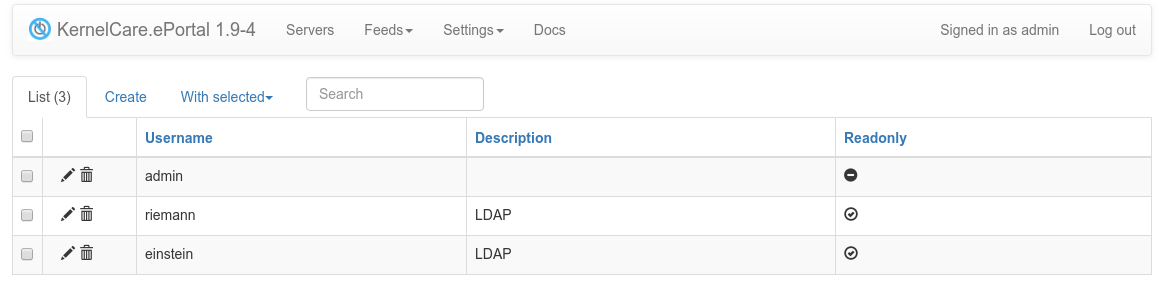
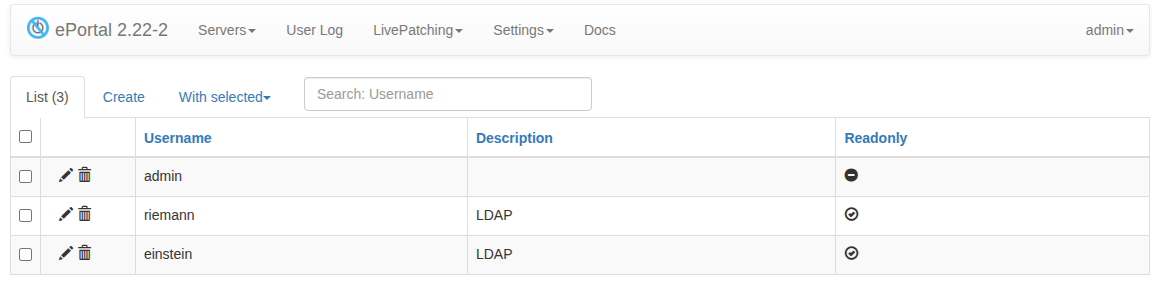
Update ePortal documentation with new features and improvements
- Add Debian 13 support and installation instructions
- Document Distribution column and filtering options (Usage, Distribution, Show unavailable)
- Explain possible patchset statuses
- Add stream-specific unroll commands with --delete option
- Document interactive features (clickable counters, drill-down charts)
- Add backup-db command and restore options documentation
- Enhance Overview page documentation with effective kernels and LibCare statistics
- Add warning about QemuCare deprecation

diff --git a/docs/eportal/README.md b/docs/eportal/README.md
@@ -43,7 +43,7 @@ As far as other requirements concerned, we have tested the following configurati
 If you are installing for the first time, please confirm with our sales engineering team at [sales@tuxcare.com](sales@tuxcare.com) **BEFORE** trying the installation via the documentation below. Please note that support tickets resulting from not following this recommendation will not be accepted.
 :::
 
-ePortal is compatible with 64-bit versions of EL7/8/9 based distros like CentOS 7/8, AlmaLinux 8/9/10, Ubuntu 20.04/22.04/24.04 and Debian 11/12
+ePortal is compatible with 64-bit versions of EL7/8/9 based distros like CentOS 7/8, AlmaLinux 8/9/10, Ubuntu 20.04/22.04/24.04 and Debian 11/12/13
 
 ## Automated Installation Script
 
@@ -59,7 +59,7 @@ The installer script supports the following distributions:
 * Oracle Linux (OEL) 8, 9, 10
 
 **Debian-based:**
-* Debian 11, 12
+* Debian 11, 12, 13
 * Ubuntu 20.04, 22.04, 24.04
 
 ### Main Features
@@ -259,7 +259,30 @@ Install ePortal:
 # apt update && apt install -y --no-install-recommends kcare-eportal
 ```
 
+### Debian 13
+
+```text
+# apt update && apt install -y --no-install-recommends curl ca-certificates
+
+# curl https://repo.cloudlinux.com/kernelcare/kernelcare.gpg -o /usr/share/keyrings/kcare-eportal.gpg
+
+# cat > /etc/apt/sources.list.d/kcare-eportal.list <<EOL
+deb [signed-by=/usr/share/keyrings/kcare-eportal.gpg] https://repo.cloudlinux.com/kcare-eportal/debian/13 kcare main
+EOL
+```
+
+Install ePortal:
+
+```text
+# apt update && apt install -y --no-install-recommends kcare-eportal
+```
+
 ### Docker image
+
+:::tip Note
+For production deployments, use the `-d` flag (detached mode) to run the container in the background. For interactive testing or debugging, you can use `-it` flags instead.
+:::
+
 Simple run:
 
 ```text
@@ -319,6 +342,7 @@ The ePortal image uses several environment variables which are useful for the ad
 | EPORTAL_RADAR_PROXY_ENABLE               | enable TuxCare RADAR proxying                                                        | False         |
 | EPORTAL_RADAR_PROXY_BASEURL              | TuxCare RADAR URL                                                                    | https://radar.tuxcare.com |
 | EPORTAL_SEND_CHECKIN_PERIOD              | servers check-ins report period in seconds                                           | 1 day         |
+| EPORTAL_ENABLE_ERROR_REPORTING           | send application errors to the patchserver                                           | False         |
 
 
 For example, if you need to send reduced stats:
@@ -634,13 +658,41 @@ You can choose only a limited set of distros to fetch to reduce disk space and n
 
 ![dashboard](/images/eportal-dashboard.png)
 
-* **Usage**: amount of servers using particular patchset on any feed. You can click on the number to see a list of servers using the patchset.
+* **Usage**: amount of servers using particular patchset on any feed. You can click on the number to see a list of servers using the patchset. You can filter the patchset list to show only patchsets that are in use by using the Usage column filter.
 
 * **Patchsets**: name of the patchset. Click on a name will show patchset changelog.
+
+* **Distribution**: shows the Linux distributions that this patchset supports. This column helps you identify which patchsets are relevant for your environment. You can use the [distribution filter](#filtering-patchsets) to view only patchsets for specific distributions.
 
 * **Feed name**: cells show patchset deployment and server usage status on particular feed. Numbers are also clickable to filter server list.
 
 * **Manage**: opens dialog to enable/disable the patchset.
+
+### Patchset deployment statuses
+
+The dashboard displays different statuses for patchsets in each feed column:
+
+* **Enabled**: The patchset is enabled and available for servers to use.
+* **Disabled**: The patchset has been disabled by the administrator. It remains in the feed but is not available to servers.
+* **Blocked**: The patchset is blocked on the patchserver, indicating it should not be used (e.g., due to known issues). Blocked patchsets are automatically disabled in ePortal and cannot be managed through the UI.
+* **Undeployed**: The patchset has been downloaded but is not yet deployed to the feed.
+* **Not downloaded**: The patchset has not been downloaded to ePortal yet.
+* **Not available**: The patchset is unavailable for the feed (disabled on the patchserver but not blocked).
+* **Enabled (!)**: Warning status - the patchset is enabled in ePortal but has been disabled or is no longer available on the patchserver. This indicates a conflict between the local ePortal configuration and the patchserver state. Possible causes include:
+  * The patchset was disabled on the patchserver after it was enabled in ePortal (e.g., due to discovered issues, deprecation, or replacement)
+  * The patchset may have been removed from the patchserver for a specific feed or channel
+
+  When you see this status, you should review the patchset and consider disabling it in ePortal or updating to a newer patchset if available. Servers using this patchset may encounter issues.
+
+### Filtering patchsets
+
+You can filter patchsets on the dashboard page:
+
+* **Usage filter**: Filter to show only patchsets that are currently in use by servers (i.e., have at least one server actively using them). This helps you focus on active patchsets or identify which ones can be safely removed. See the [Usage column](#patchset-deployment) description above for more details.
+
+* **Distribution filter**: Filter patchsets based on Linux distribution. This allows you to view only patchsets relevant to specific distributions (e.g., Ubuntu, Debian, RHEL-based), making it easier to manage patchsets for your environment. The filter works with the [Distribution column](#patchset-deployment) to help you find relevant patchsets.
+
+* **Show unavailable patchsets**: By default, patchsets that became unavailable (disabled on the patchserver) are hidden from the dashboard. Enable this toggle to display all patchsets, including those that are unavailable. This can be useful for troubleshooting or viewing the complete list of patchsets.
 
 ### Manage patchset page
 
@@ -648,11 +700,13 @@ You can choose only a limited set of distros to fetch to reduce disk space and n
 
 In this dialog you can control which patchsets will be enabled/disabled on corresponding feeds.
 
-* **Enable all up to this patchset**: action will enable all patchsets (excluding **disabled**) up to this patchset.
+* **Enable all up to this patchset**: action will enable all patchsets (excluding **disabled**) up to this patchset. This action skips any patchsets that are currently disabled, so they remain disabled even when using this bulk enable action.
 
-* **Enable**: action will enable only current patchset.
+* **Enable**: action will enable only the current patchset. If the patchset is not yet deployed, it will be downloaded and deployed first.
 
-* **Disable**: action will disable only current patchset. Disabled patchsets are immune to auto-update and mass-enabling via **Enable all up to this patchset** action.
+* **Disable**: action will disable only the current patchset. Disabled patchsets are immune to auto-update and mass-enabling via **Enable all up to this patchset** action. The patchset remains in the feed but is marked as disabled.
+
+* **Undeploy down to this patchset**: action will disable the selected patchset and all newer patchsets in the feed. Older patchsets remain available in the feed.
 
 To unroll a patchset from the CLI, run:
 
@@ -660,9 +714,23 @@ To unroll a patchset from the CLI, run:
 # kc.eportal --unroll 16012017_1
 ```
 
+Or use the stream-specific commands:
+
+```text
+# kc.eportal kcare unroll 16012017_1
+# kc.eportal libcare unroll U20210129_02
+```
+
+If you want to remove a patchset instead of just disabling it, you can use the `--delete` option:
+
+```text
+# kc.eportal kcare unroll 16012017_1 --delete
+# kc.eportal libcare unroll U20210129_02 --delete
+```
+
 ### Automatic updates
 
-You can configure automatic updates by enabling Autoupdate on the desired feeds via Settings -> Feeds.
+You can configure automatic updates by enabling Autoupdate on the desired feeds via LivePatching -> Feeds.
 
 :::danger Note
 The **default feed** cannot be configured via the Settings page to receive automatic updates. See the next section on configuring automatic updates for the **default feed**.
@@ -712,7 +780,7 @@ $ ssh eportal-prod 'ls /tmp/K*.tar.bz2 | sort -h | xargs -n1 kc.eportal kcare de
 ```
 
 :::danger Note
-Please note that procedure above should be done for all other types of patchsets (like libcare and qemu) *separately*. Use corresponding file prefixes and commands like `kc.eportal libcare deploy`.
+Please note that procedure above should be done for all other types of patchsets (like libcare) *separately*. Use corresponding file prefixes and commands like `kc.eportal libcare deploy`.
 :::
 
 ### Clean obsolete releases
@@ -800,52 +868,9 @@ This command will deploy and enable the `U20210129_02` patchset in to the `test`
 
 ## QEMU PatchSet Deployment
 
-Starting from version 1.25, ePortal supports the QEMU patchset management. It is accessible from the `Patches / QEMUcare` navigation item. QEMU patches use the same Patch Source credentials, and you don't need to perform additional configuration.
-
-![qemu feed](/images/eportal-qemu-feed.png)
-
-### Command to install the latest patchsets
-
-To update the default feed, run the following command:
-
-```text
-# kc.eportal qemu update
-```
-
-To update the `test` feed, run the following command:
-
-```text
-# kc.eportal qemu update --feed test
-```
-
-To update all auto-feeds, run the following command:
-
-```text
-# kc.eportal qemu auto-update
-```
-
-### Command to deploy patchset from archive
-
-```text
-~$ kc.eportal qemu deploy --help
-usage: kc.eportal qemu deploy [-h] [--feed FEED] [--disabled] archive
-
-positional arguments:
-  archive      path to archive
-
-optional arguments:
-  -h, --help   show this help message and exit
-  --feed FEED  feed to deploy archive to
-  --disabled   do not enable patchset after deploy
-```
-
-For example:
-
-```text
-# kc.eportal qemu deploy --feed test /tmp/U20210818_01-qemu.tar.bz2
-```
-
-This command will deploy and enable the `U20210818_01-qemu` patchset in to the `test` feed.
+:::danger Note
+QemuCare product is being deprecated
+:::
 
 ## Managing Keys
 
@@ -871,7 +896,7 @@ Fill in the following fields:
 
 Available products:
 
-* **KernelCare**/**LibCare**/**QemuCare**/**DBCare**: allow only patches of selected type.
+* **KernelCare**/**LibCare**/**QemuCare**/**DBCare**: allow only patches of selected type (QemuCare product is being depricated).
 * **Enterprise Support for AlmaLinux - ESU**: allow access to the Extended Security Updates and FIPS repositories.
 
 Products can be mixed to limit access to a particular set of patch types. For example:
@@ -893,7 +918,7 @@ Click _Cancel_ to return to the key list tab without adding a new key.
 ```text
 ~$ kc.eportal key --help
 usage: kc.eportal key [-h] [-a] [-c] [--note NOTE] [--server-limit SERVER_LIMIT] [--feed FEED]
-                      [--product {tuxcare-repo,db,kernel,libcare,qemu}] [--default-products]
+                      [--product {kernel,libcare,qemu,tuxcare-esu}] [--default-products]
                       [key]
 
 list available keys by default
@@ -909,9 +934,9 @@ optional arguments:
   --server-limit SERVER_LIMIT
                         maximum number of servers allowed
   --feed FEED           feed to associate key to
-  --product {tuxcare-repo,db,kernel,libcare,qemu}
+  --product {kernel,libcare,qemu,tuxcare-esu}
                         products available for the key, can be specified multiple times
-  --default-products    set default product list (KernelCare, LibCare, DBCare, QEMUCare) for the key
+  --default-products    set default product list (KernelCare, LibCare, QEMUCare) for the key
 ```
 
 List keys:
@@ -951,10 +976,14 @@ To view the list of all servers IDs that are connected to the particular key, do
 * In the UI go to the page with the list of keys. Then click the particular
   key. The list of servers connected to this key will be displayed.
 
-To view the list of all servers IDs that are not connected to any key, use the
-<span class="notranslate">_Servers_</span> button on the navigation bar.
+To view the list of all servers, use the
+<span class="notranslate">_Servers_</span> menu on the navigation bar and select _Servers_ from the dropdown menu. The dropdown menu also provides access to _Server tags_ and _Overview_ pages.
 
 ![eportal servers](/images/eportal-servers.png)
+
+:::tip Clickable counters
+The counters displayed on the Servers page are clickable. Clicking on any counter will filter the server list to show only servers matching that criteria. For example, clicking on a counter showing "KCare active" will filter to show only servers with KernelCare actively reporting. This provides quick navigation and filtering capabilities. See also the [Overview page](#overview-page) for similar interactive features.
+:::
 
 Also you can use CLI to see pairs of key/number of servers run:
 
@@ -1036,7 +1065,7 @@ Where `""` is a parameter to delete the previously defined tag.
 Feeds are intended to manage patchsets on the server, and they provide a possibility to bind a set of patches to a specific key. Possible use cases:
 for preliminary testing of patches, for applying updates to groups of servers with the similar hardware, etc.
 
-To get into Feeds Management interface go to Settings -> Feeds:
+To get into Feeds Management interface go to LivePatching -> Feeds:
 
 ![feeds](/images/feed-button_zoom70.png)
 
@@ -1083,14 +1112,12 @@ By default, a new key is bound to the default feed, alternatively, a user can ch
 When removing a feed all keys attached to this feed will be moved to the default feed.
 :::
 
-![delete feed](/images/feedmanagement6_zoom70.png)
-
 ### CLI to manage feeds
 
 ```text
 ~$ kc.eportal feed --help
 usage: kc.eportal feed [-h] [-a] [-c] [--auto] [--no-auto] [--deploy-after hours]
-                       [--channel {default,test}] [feed]
+                       [--channel {default,test,unstable}] [feed]
 
 list available feeds by default
 
@@ -1104,7 +1131,7 @@ optional arguments:
   --auto                update feed automatically
   --no-auto             don't update feed automatically
   --deploy-after hours  deploy after specified hours
-  --channel {default,test}
+  --channel {default,test,unstable}
                         patchset channel to use for this feed
 ```
 
@@ -1180,12 +1207,20 @@ Additional metrics:
 - **Average uptime** — average uptime across these servers
 - **Median uptime** — median uptime across these servers
 
+:::tip Interactive charts
+You can click on any segment of the donut chart to drill down and filter the server list. This allows you to explore which servers fall into each uptime category and view detailed information about them.
+:::
+
 ![Uptime distribution](/images/overview_uptime_distribution.png)
 
 ### CPU arch distribution
 
 Shows the breakdown of CPU architectures detected on servers.
 If the architecture is not reported, it appears as `unknown`.
+
+:::tip Interactive charts
+Click on any segment of the donut chart to filter the server list and view servers with that specific architecture. See also the [Uptime distribution](#uptime-distribution) section for similar functionality.
+:::
 
 ![Architecture distribution](/images/overview_arch_distribution.png)
 
@@ -1198,6 +1233,8 @@ along with how many of those servers have KernelCare (KCare) or LibCare enabled:
 - **KCare silent** — server has KCare enabled, but is not currently reporting
 - **LibCare active** — server has LibCare enabled and is actively reporting
 - **LibCare silent** — server has LibCare enabled, but is not currently reporting
+
+The LibCare usage statistics show how many servers have LibCare enabled and are actively using it versus those that have it enabled but are not currently reporting. This helps you understand LibCare adoption and usage across your infrastructure.
 
 If more than 10 OS types are detected, the rest are grouped under an **"Other"** row.
 A **Total** row summarizes all servers.
@@ -1216,6 +1253,10 @@ If more than 10 kernel versions are detected, the rest are grouped under an "Oth
 A **Total** row summarizes all servers.
 
 ![Kernel distribution](/images/overview_kernel_distribution.png)
+
+### Effective kernels
+
+The Overview page also displays a list of **effective kernels** — the kernels that are actually in use across your servers. This differs from the [kernel distribution chart](#kernel-distribution) above in that it shows the complete list of active kernels rather than just the top 10, helping you identify all kernel versions that need patch coverage.
 
 ## How to setup ePortal to use HTTPS
 
@@ -1636,20 +1677,53 @@ kc.eportal utility have an option to create a data backup
 # kc.eportal backup /var/lib/eportal/backups/eportal_$(date '+%Y-%m-%d').tar.gz
 ```
 
+### Backup databases only
+
+To backup only the databases without patchset files:
+
+```text
+# kc.eportal backup-db /var/lib/eportal/backups/db_backup
+```
+
+Use the `-v` or `--verbose` flag to see operation progress:
+
+```text
+# kc.eportal backup-db -v /var/lib/eportal/backups/db_backup
+```
+
+This is useful when you only need to backup configuration and server data without the large patchset files. For full backups including patchsets, use the [backup command](#create-backup) instead.
+
 ### Restore data from a backup
 
 :::danger Warning!
 IMPORTANT: ePortal should be stopped before restore process.
 :::
 
-For example:
+The restore command supports several options to control what gets restored:
+
+* `--db` - restore database data only
+* `--config` - restore config.json only
+* `--instance-id` - restore instance ID only
+* `--data` - restore database and config.json (default)
+* `--full` - restore all data (databases, config, instance ID, and patchset files)
+
+See the [backup section](#backup-and-restore) for information on creating backups.
+
+For example, to restore everything:
 
 ```text
 # systemctl stop eportal
-# kc.eportal restore /var/lib/eportal/backups/eportal_backup.tar.gz
+# kc.eportal restore --full /var/lib/eportal/backups/eportal_backup.tar.gz
 # kc.eportal kcare download-missing
 # kc.eportal libcare download-missing
-# kc.eportal qemu download-missing
+# systemctl start eportal
+```
+
+To restore only the database and configuration:
+
+```text
+# systemctl stop eportal
+# kc.eportal restore --data /var/lib/eportal/backups/eportal_backup.tar.gz
 # systemctl start eportal
 ```
 
